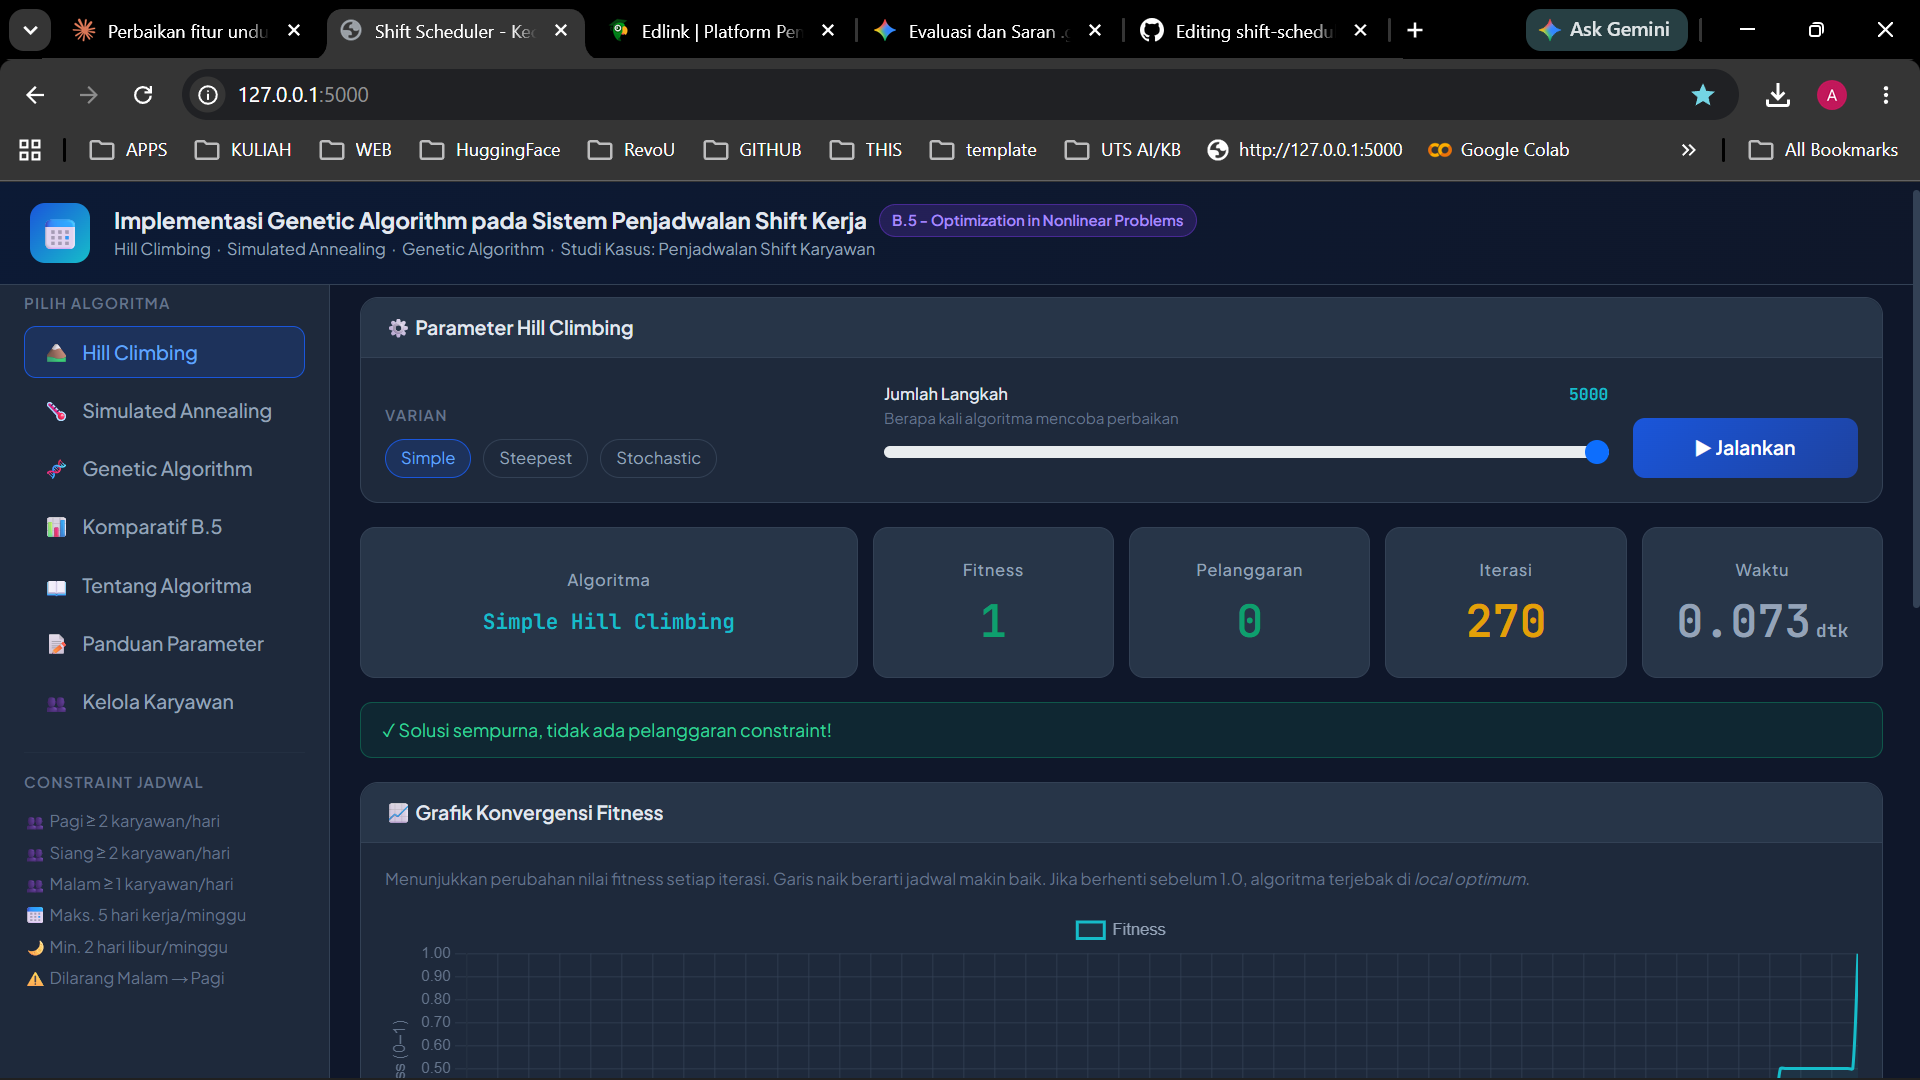
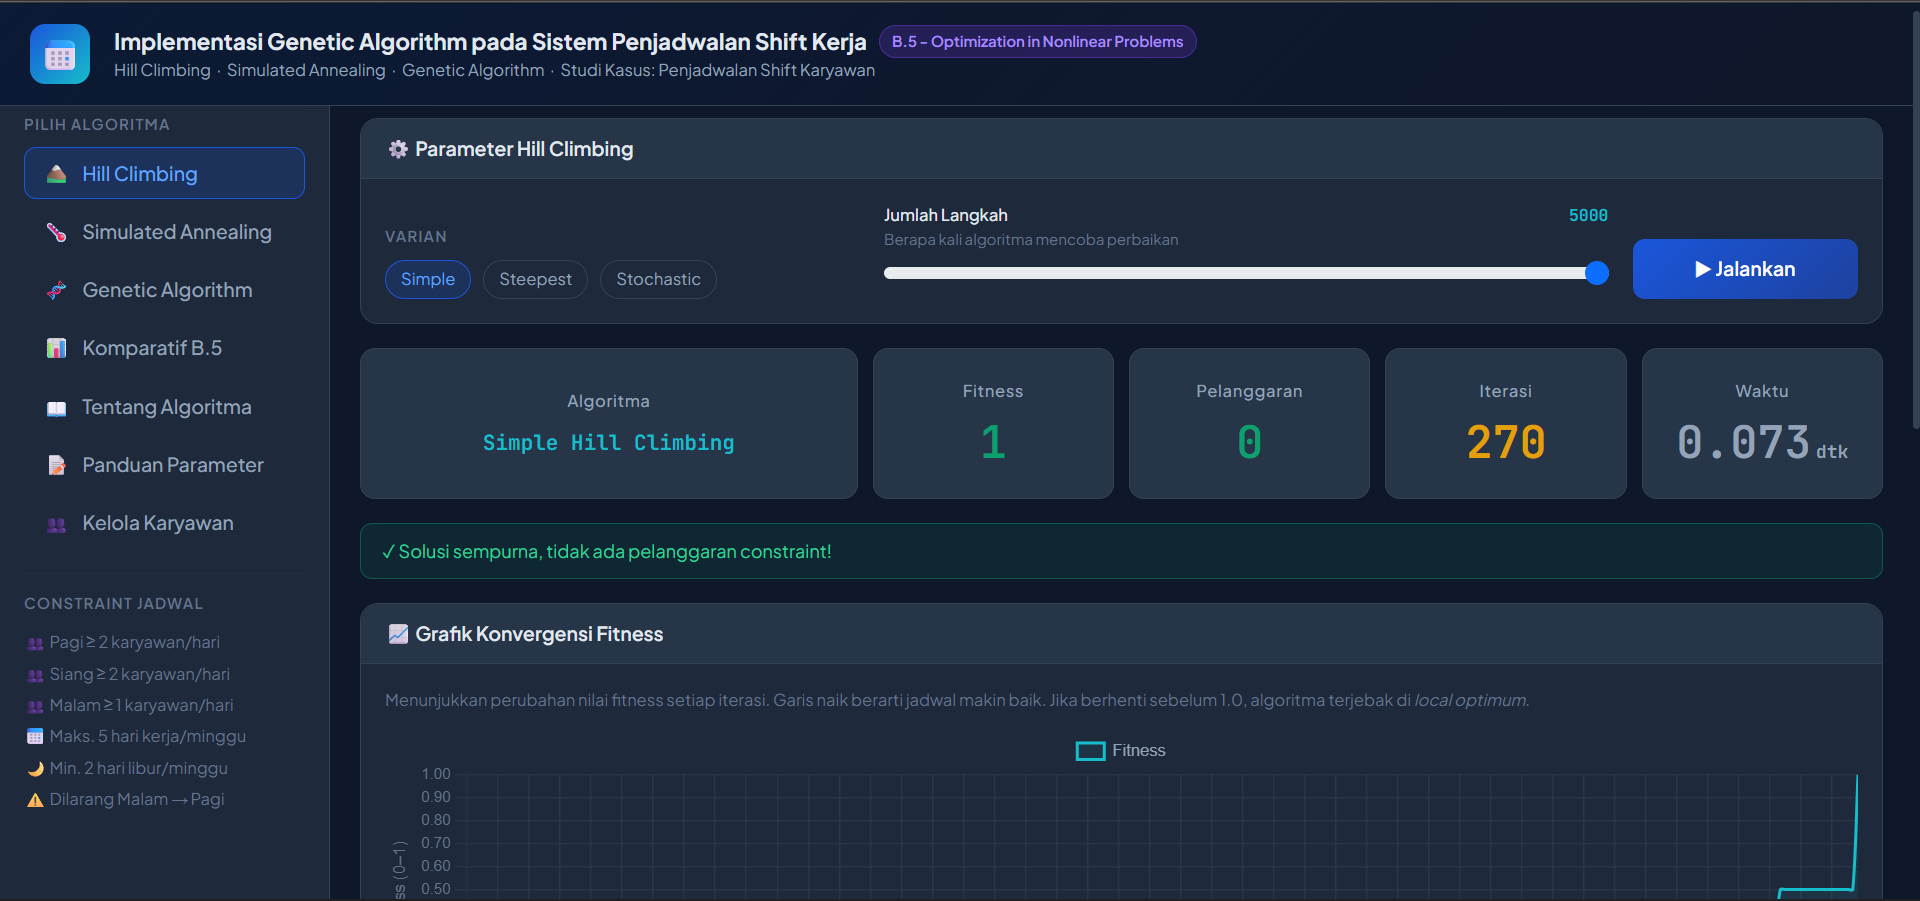
update

diff --git a/README.md b/README.md
@@ -109,9 +109,9 @@ Buka browser di **`http://localhost:5000`**
 - Ruang solusi: 4^(10×7) = 4^70 ≈ 10^42 kemungkinan (nonlinear, NP-hard)
 
 ### Fungsi Fitness
-Solusi dievaluasi berdasarkan jumlah pelanggaran terhadap *constraints*. Fungsi *fitness* dirumuskan sebagai berikut:
-
-$$fitness = \frac{1}{1 + \text{total\_pelanggaran}}$$
+```
+fitness = 1 / (1 + total_pelanggaran)
+```
 
 ### Constraint yang Dievaluasi
 1. Minimum karyawan per shift per hari (Pagi≥2, Siang≥2, Malam≥1)
@@ -169,9 +169,5 @@ $$fitness = \frac{1}{1 + \text{total\_pelanggaran}}$$
 
 # 📅 Komparasi Algoritma Metaheuristik pada Sistem Penjadwalan Shift Kerja dengan Visualisasi Interaktif
 
-Aplikasi simulasi web untuk pemecahan **B.5 — Optimization in Nonlinear Problems**.  
+Aplikasi simulasi web untuk pemecahan **Optimization in Nonlinear Problems**.  
 Mengimplementasikan, memvisualisasikan, dan membandingkan tiga algoritma optimasi (Hill Climbing, Simulated Annealing, dan Genetic Algorithm) dalam menyelesaikan masalah penjadwalan shift karyawan.
-
-> **Mata Kuliah:** Kecerdasan Buatan  
-> **Topik:** Pencarian Lokal dan Optimasi — **B.5 Optimization in Nonlinear Problems** > **Algoritma:** Hill Climbing (3 varian) · Simulated Annealing · Genetic Algorithm
-
